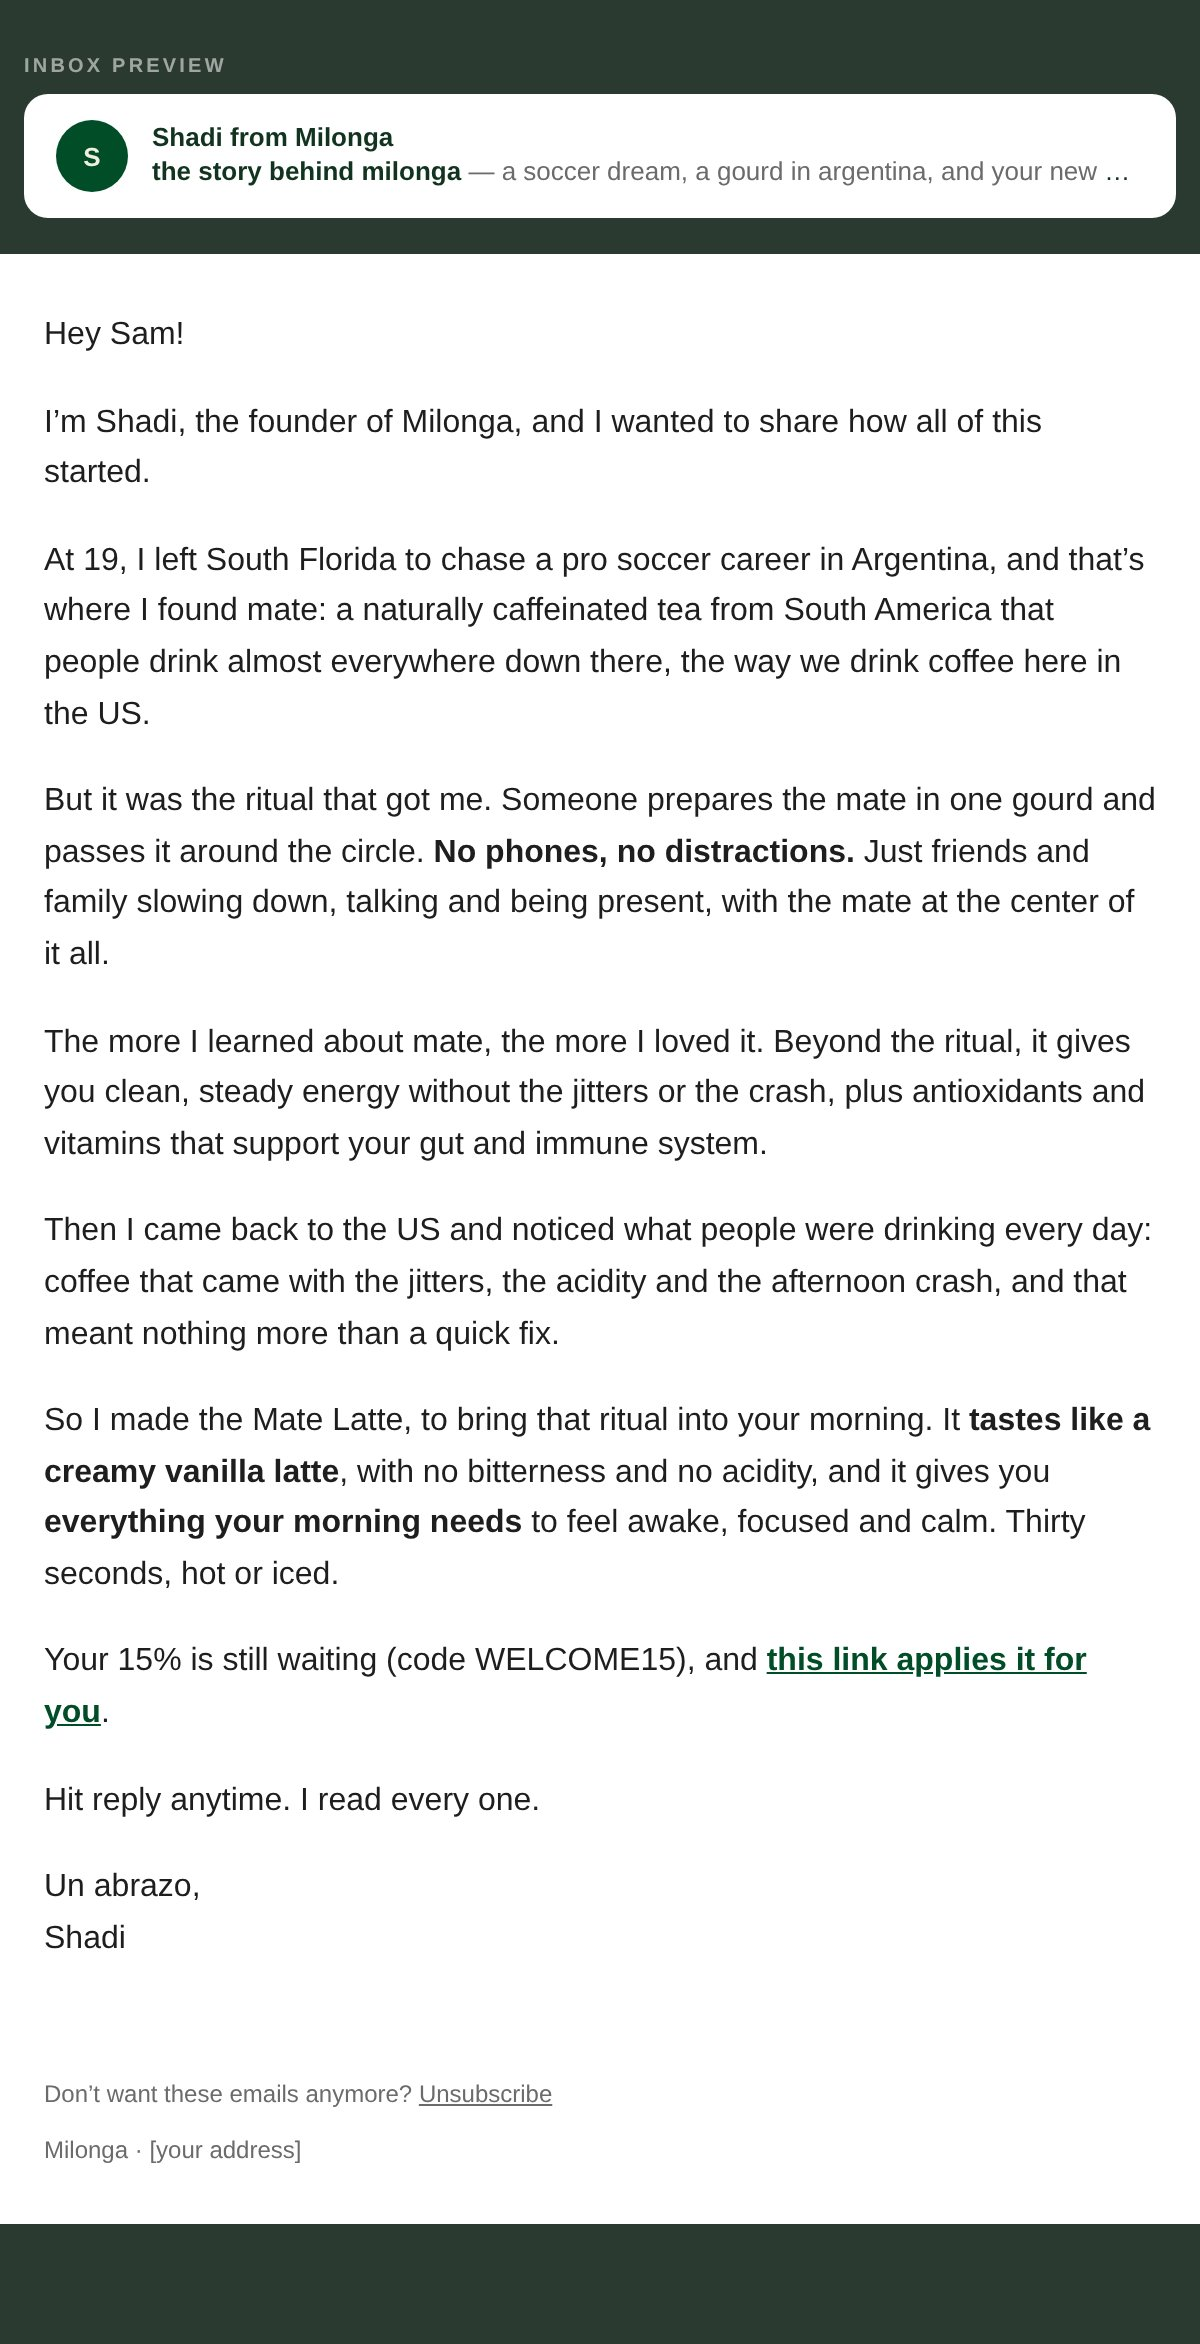
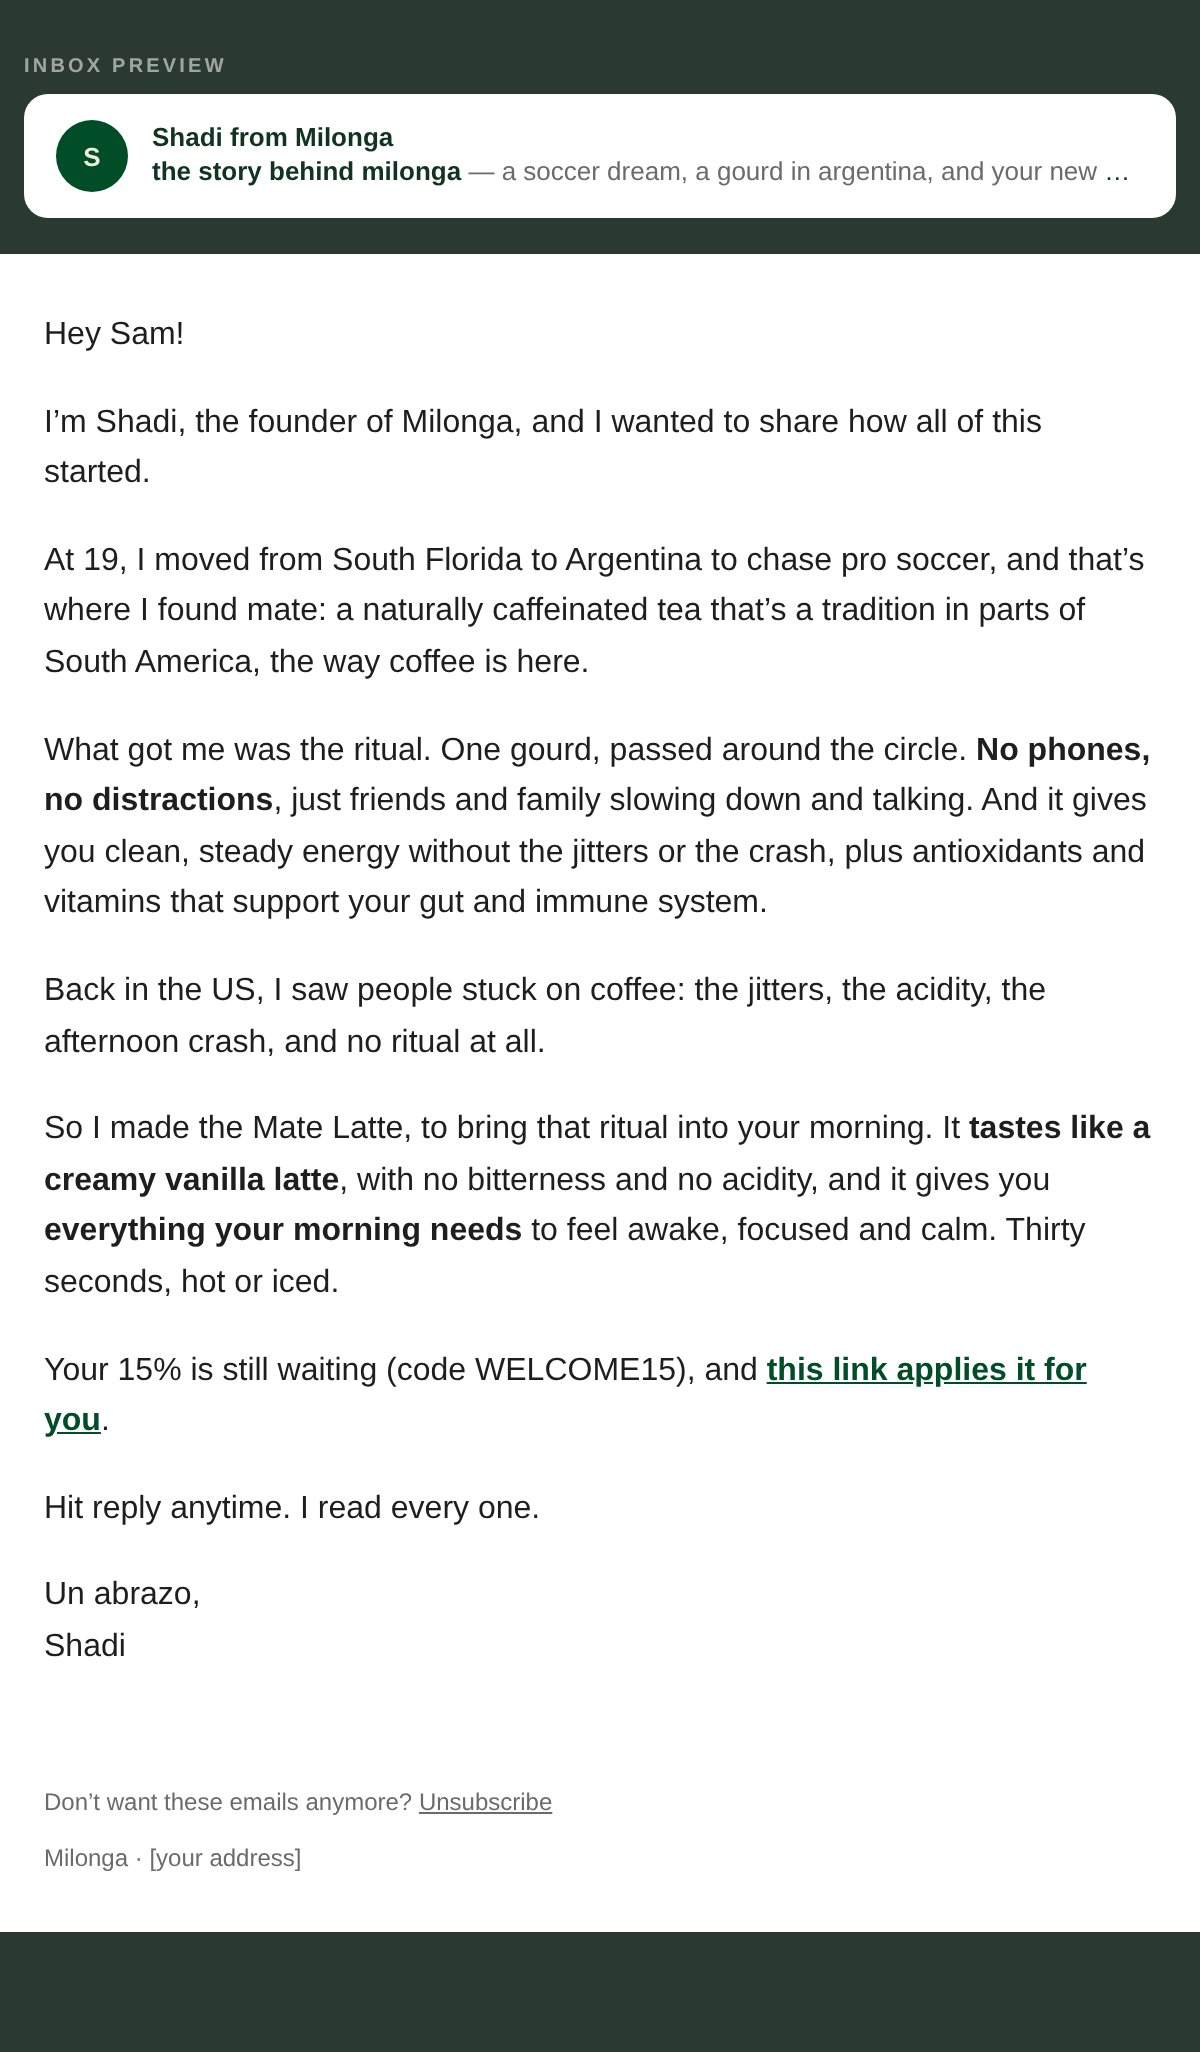
Story email: tighter: what mate is, the ritual, the problem he saw
Claude-Session: https://claude.ai/code/session_01NhEtXPnfeCJfN73SqBkUZ5

Changed region(s): [[0.0, 0.0, 1.0, 0.8421], [0.0, 0.8733, 1.0, 0.9669]]

diff --git a/email-ds/refine/welcome-story.html b/email-ds/refine/welcome-story.html
@@ -29,10 +29,9 @@ body{margin:0;background:#2B3A31;padding:28px 0 60px}
 
 <p style="margin:0 0 18px;">Hey Sam!</p>
 <p style="margin:0 0 18px;">I&rsquo;m Shadi, the founder of Milonga, and I wanted to share how all of this started.</p>
-<p style="margin:0 0 18px;">At 19, I left South Florida to chase a pro soccer career in Argentina, and that&rsquo;s where I found mate: a naturally caffeinated tea from South America that people drink almost everywhere down there, the way we drink coffee here in the US.</p>
-<p style="margin:0 0 18px;">But it was the ritual that got me. Someone prepares the mate in one gourd and passes it around the circle. <strong>No phones, no distractions.</strong> Just friends and family slowing down, talking and being present, with the mate at the center of it all.</p>
-<p style="margin:0 0 18px;">The more I learned about mate, the more I loved it. Beyond the ritual, it gives you clean, steady energy without the jitters or the crash, plus antioxidants and vitamins that support your gut and immune system.</p>
-<p style="margin:0 0 18px;">Then I came back to the US and noticed what people were drinking every day: coffee that came with the jitters, the acidity and the afternoon crash, and that meant nothing more than a quick fix.</p>
+<p style="margin:0 0 18px;">At 19, I moved from South Florida to Argentina to chase pro soccer, and that&rsquo;s where I found mate: a naturally caffeinated tea that&rsquo;s a tradition in parts of South America, the way coffee is here.</p>
+<p style="margin:0 0 18px;">What got me was the ritual. One gourd, passed around the circle. <strong>No phones, no distractions</strong>, just friends and family slowing down and talking. And it gives you clean, steady energy without the jitters or the crash, plus antioxidants and vitamins that support your gut and immune system.</p>
+<p style="margin:0 0 18px;">Back in the US, I saw people stuck on coffee: the jitters, the acidity, the afternoon crash, and no ritual at all.</p>
 <p style="margin:0 0 18px;">So I made the Mate Latte, to bring that ritual into your morning. It <strong>tastes like a creamy vanilla latte</strong>, with no bitterness and no acidity, and it gives you <strong>everything your morning needs</strong> to feel awake, focused and calm. Thirty seconds, hot or iced.</p>
 <p style="margin:0 0 18px;">Your 15% is still waiting (code WELCOME15), and <a href="https://milonga.life/discount/WELCOME15?redirect=%2Fproducts%2Fthe-original-mate-latte&amp;utm_source=klaviyo&amp;utm_medium=email&amp;utm_campaign=welcome_mystery_offer&amp;utm_content=story_text_link" target="_blank" style="color:#004D27;font-weight:bold;text-decoration:underline;">this link applies it for you</a>.</p>
 <p style="margin:0 0 18px;">Hit reply anytime. I read every one.</p>

diff --git a/email-ds/exports/klaviyo/welcome-story/welcome-story.html b/email-ds/exports/klaviyo/welcome-story/welcome-story.html
@@ -17,10 +17,9 @@
 
 <p style="margin:0 0 18px;">Hey {{ first_name|default:'there' }}!</p>
 <p style="margin:0 0 18px;">I&rsquo;m Shadi, the founder of Milonga, and I wanted to share how all of this started.</p>
-<p style="margin:0 0 18px;">At 19, I left South Florida to chase a pro soccer career in Argentina, and that&rsquo;s where I found mate: a naturally caffeinated tea from South America that people drink almost everywhere down there, the way we drink coffee here in the US.</p>
-<p style="margin:0 0 18px;">But it was the ritual that got me. Someone prepares the mate in one gourd and passes it around the circle. <strong>No phones, no distractions.</strong> Just friends and family slowing down, talking and being present, with the mate at the center of it all.</p>
-<p style="margin:0 0 18px;">The more I learned about mate, the more I loved it. Beyond the ritual, it gives you clean, steady energy without the jitters or the crash, plus antioxidants and vitamins that support your gut and immune system.</p>
-<p style="margin:0 0 18px;">Then I came back to the US and noticed what people were drinking every day: coffee that came with the jitters, the acidity and the afternoon crash, and that meant nothing more than a quick fix.</p>
+<p style="margin:0 0 18px;">At 19, I moved from South Florida to Argentina to chase pro soccer, and that&rsquo;s where I found mate: a naturally caffeinated tea that&rsquo;s a tradition in parts of South America, the way coffee is here.</p>
+<p style="margin:0 0 18px;">What got me was the ritual. One gourd, passed around the circle. <strong>No phones, no distractions</strong>, just friends and family slowing down and talking. And it gives you clean, steady energy without the jitters or the crash, plus antioxidants and vitamins that support your gut and immune system.</p>
+<p style="margin:0 0 18px;">Back in the US, I saw people stuck on coffee: the jitters, the acidity, the afternoon crash, and no ritual at all.</p>
 <p style="margin:0 0 18px;">So I made the Mate Latte, to bring that ritual into your morning. It <strong>tastes like a creamy vanilla latte</strong>, with no bitterness and no acidity, and it gives you <strong>everything your morning needs</strong> to feel awake, focused and calm. Thirty seconds, hot or iced.</p>
 <p style="margin:0 0 18px;">Your 15% is still waiting (code WELCOME15), and <a href="https://milonga.life/discount/WELCOME15?redirect=%2Fproducts%2Fthe-original-mate-latte&amp;utm_source=klaviyo&amp;utm_medium=email&amp;utm_campaign=welcome_mystery_offer&amp;utm_content=story_text_link" target="_blank" style="color:#004D27;font-weight:bold;text-decoration:underline;">this link applies it for you</a>.</p>
 <p style="margin:0 0 18px;">Hit reply anytime. I read every one.</p>
